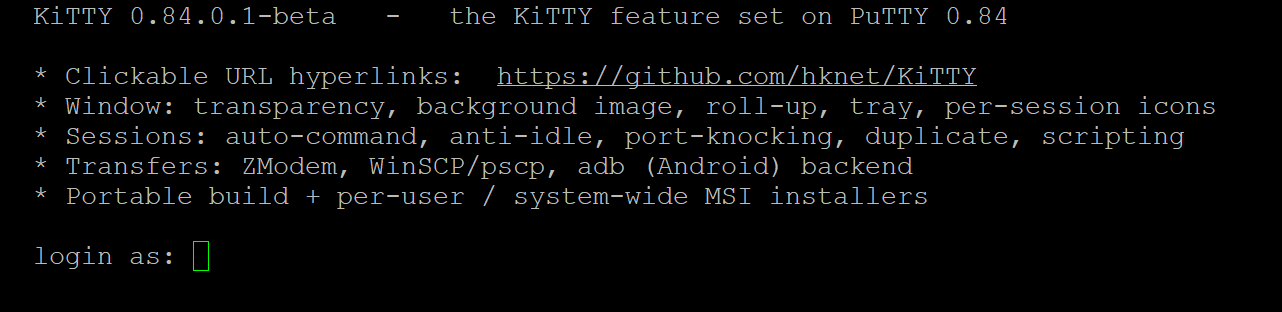
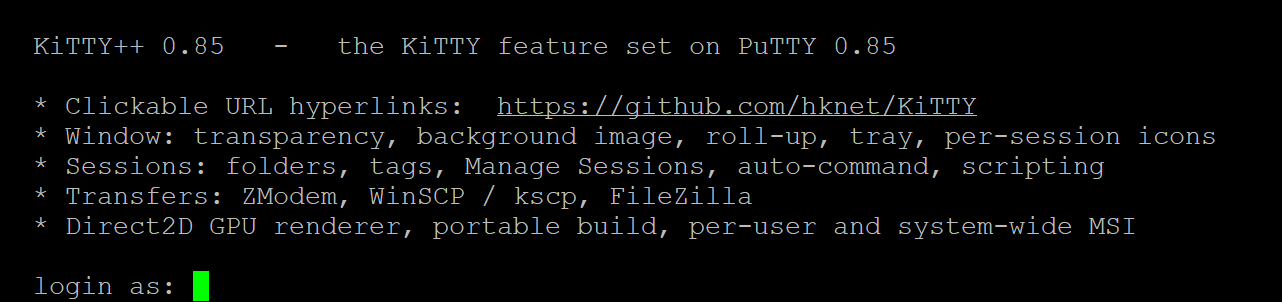
README and FEATURES: new screenshots of the current release
Every picture in the README and FEATURES is taken from the current build over generated demo content.
The README shows the GPU renderer settings in the light and the dark theme side by side.
Three pictures FEATURES referred to had never existed.
Four showed a panel other than the one their section describes.
The font section now names the menu the font controls really sit in.

diff --git a/FEATURES.md b/FEATURES.md
@@ -118,7 +118,7 @@ If you manage a large number of saved sessions, KiTTY++ lets you organize them i
 
 **How to enable:** Automatic in KiTTY++ mode: the Session panel shows a **Folder** dropdown that filters the saved-session list to one folder, plus New folder / Delete folder controls. To create a folder, pick the **`<new folder...>`** entry at the top of the dropdown, type the name, and click *New folder*. To rename a folder, select it, type the new name over it, and click *Rename* — the button renames itself. The sessions in it move with it. Deleting a folder that holds sessions puts up the question where they go - the root (preselected) or any other folder - rather than deleting them. Sessions that are in no folder live in the root list, shown as **All sessions (root)** — that is not a folder and cannot be deleted, but you can rename what it is called: select it, type your own name over the label, and the button changes to *Rename* to confirm what will happen. Typing the built-in name back restores it. The new name is cosmetic, so no session or setting is moved or changed by it (it is stored as `RootFolderLabel`, in the registry or in kitty.ini's `[KiTTY]` section depending on your save mode). To search within the active folder filter, type in the Saved Sessions field; Up/Down moves into the filtered list and Enter loads or starts the highlighted visible session. Press **Ctrl+F** anywhere in the config window — from any settings panel, or right after starting a session with Enter — to jump back to the Session panel with the search field focused and its content selected, so just typing starts a new search. **Ctrl+G** does the same but searches *everywhere*: it first drops the folder filter back to the root list, so the search covers every saved session instead of only the selected folder. Nothing is loaded, moved or re-filed by it — only the folder filter changes. The two buttons differ in where the session opens: clicking **Open** opens the chosen session in the current window (the config box closes), while **Start** — like pressing Enter — starts it in a new window and keeps the config box open for launching the next one. If you prefer the classic behaviour where typing never narrows the list, set `filter=no` in the kitty.ini `[ConfigBox]` section.
 
-![Sessions filter (folders): the folder dropdown on Production\Web, with web02 loaded](docs/features/img/session_list_classic.png)
+<img src="docs/features/img/session_list_classic.png" width="585" height="432" alt="Sessions filter (folders): the folder dropdown on Production\Web, with web02 loaded">
 
 *See also: [How session folders work (PDF)](docs/features/kitty-folders_list_feature.pdf)*
 
@@ -136,7 +136,7 @@ no folder — the rest are reached through their folder — which is the differe
 you will notice first, because the classic root list shows everything and marks
 the filed ones in brackets.
 
-![Folder navigation mode: the root lists its folders as rows, then the sessions in no folder](docs/features/img/session_list_rows.png)
+<img src="docs/features/img/session_list_rows.png" width="585" height="432" alt="Folder navigation mode: the root lists its folders as rows, then the sessions in no folder">
 
 - **Create a folder:** type the name in the session-name box and press
   **New folder**, which sits beside *Save*. No arming step, and creating a
@@ -279,7 +279,7 @@ sessions on after a confirmation. Sessions dragged from the list onto it take
 the tag. Del or *Remove from Tag* takes it off, after a confirmation. The
 window reopens on the last tag.
 
-![Manage Sessions](docs/features/img/manage_sessions.png)
+<img src="docs/features/img/manage_sessions.png" width="728" height="536" alt="Manage Sessions">
 
 **Arrange.** Sessions saved by an older version are filed by their `Folder=`
 value and keyed by their bare name. *Arrange...* moves each of them to its
@@ -400,7 +400,7 @@ letter with no command behind it is left alone, and an explicit binding in
 `eventlog={CONTROL}{SHIFT}L` without it being swallowed. To turn the whole
 mechanism off, set `shortcuts=no` in the `[KiTTY]` section of `kitty.ini`.
 
-![Shortcuts for pre-defined commands](docs/features/img/menu_shortcuts.jpg)
+<img src="docs/features/img/menu_usercommands.png" width="672" height="601" alt="User commands with their Ctrl+Shift shortcuts in the terminal menu">
 
 ### Session launcher
 
@@ -420,9 +420,9 @@ You can keep individual sessions out of the launcher menu while leaving them in 
 
 For favourite sessions, you can assign a **global hotkey** in the session's **Session → Startup** panel. The hotkey is registered only while `kitty.exe -launcher` is running; when you save a session, a running launcher is notified and refreshes its registered hotkeys automatically. The same panel includes a check button that reports whether the combination is currently available or already reserved by Windows/another application — and it names any saved session already holding the combination. When two sessions end up claiming one hotkey anyway (an import, save), the launcher balloons at startup naming who won; clicking the balloon opens the winner's settings.
 
-![Global hotkey](docs/features/img/config_hotkey.jpg)
+<img src="docs/features/img/config_hotkey.jpg" width="585" height="497" alt="Global hotkey">
 
-![Session launcher](docs/features/img/ex_launcher.jpg)
+<img src="docs/features/img/ex_launcher.png" width="599" height="300" alt="Session launcher: the tray menu with a folder open">
 
 ### Automatic logon script
 
@@ -460,7 +460,7 @@ secret123
 :: the line above waits for the server's "password:"
 ```
 
-![Automatic logon script (RuTTY patch)](docs/features/img/config_rutty.jpg)
+<img src="docs/features/img/config_rutty.jpg" width="585" height="497" alt="Automatic logon script (RuTTY patch)">
 
 ### URL hyperlinks
 
@@ -474,7 +474,7 @@ Programs that send OSC 8 hyperlinks (e.g. `ls --hyperlink` or Textual and Rich a
 
 **How to enable:** Configuration > **Window > Hyperlinks**: **Detect URLs in the output (regex)** (`HyperlinkScan`) and **Allow OSC 8 hyperlinks** (`HyperlinkOSC8`), per session, both on; **Show the target of OSC 8 hyperlinks on hover** (`HyperlinkPreview`). Also **Underline hyperlinks**, whether Ctrl is required to activate links, browser and optional hand cursor on hover. **Confirmation before opening a link** (`HyperlinkConfirm`) chooses Always, When the link looks risky (the default) or Only for non-web links. Ctrl+click a URL in the terminal to open it by default.
 
-![URL hyperlinks](docs/features/img/config_hyperlinks.jpg)
+<img src="docs/features/img/config_hyperlinks.jpg" width="585" height="497" alt="URL hyperlinks">
 
 ---
 
@@ -498,7 +498,7 @@ KiTTY++ can log you in automatically to telnet, SSH-1 and SSH-2 servers by stori
 
 **How to enable:** Configuration > **Connection > Login > Auto-login password**. It is stored with the session and sent automatically at SSH login. Tick **Show password** beside the field to reveal the stored value. As of 0.84.1.38 the password is **encrypted at rest with Windows DPAPI** (tied to your Windows account), rather than stored reversibly; existing/legacy passwords still load and are re-encrypted on the next save. NOTE: a one-time security warning still appears when you set one. DPAPI is machine-bound (it defeats offline/cross-user theft, not same-user malware, and does not move to another PC) — for the strongest security, prefer SSH public-key auth (kageant). In **portable mode** you can additionally protect it with a **master password** for cross-machine portability, which — unlike DPAPI — cannot be recovered if you forget it (see *Portable mode*). The master password is required **once per running KiTTY**: unlocking it once shares it with the session windows KiTTY opens next — from the config box, *New Session*, *Duplicate Session*, or the tray launcher — so you are not prompted again for each window. The unlock is handed only to KiTTY's own child processes (through an inherited handle, wrapped in memory with Windows CryptProtectMemory); the saved files stay master-password-encrypted at rest.
 
-![Automatic password](docs/features/img/config_password.jpg)
+<img src="docs/features/img/config_password.jpg" width="585" height="497" alt="Automatic password">
 
 ### Passwords in memory
 
@@ -524,8 +524,8 @@ When you store private keys in KiTTY's key agent (kageant), you can require an e
 
 **How to enable:** For all keys at once, tick **"Ask confirmation before each key use"** in the kageant tray menu (persisted, default off): every signing request then pops an allow/deny prompt naming the key. Or per key: generate a key whose **comment contains the word `confirmation`** (in kittygen the **Add confirmation** button beside the comment field appends it for you), then load it into **kageant.exe** — only that key requires confirmation. Or from **kitty.ini**: `[Agent] askconfirmation=` with the classic three states — `yes` (every use), `auto` (per-key comments only; the default), `no` (never — also silences the per-key prompts, for automation). kageant finds the ini on its own (`KITTY_INI_FILE`, else next to the exe, else `%APPDATA%`); when that file sets `[KiTTY] savemode=file` or `dir` — or, with no savemode line, when a portable layout (a `Sessions` folder or `KiTTYState` file) sits beside it — the ini is the authoritative store and the tray toggle writes back to it, so a **portable** kageant never touches the registry; the key-list window and the tray tooltip show *kitty.ini mode* when this is in effect. The related **“Notify when a key is used”** tray balloon (default on) is controllable the same way with `[Agent] messageonkeyusage=yes/no`.
 
-![Private-key usage confirmation](docs/features/img/config_kittygen.jpg)
-![Private-key usage confirmation](docs/features/img/ex_kageant.jpg)
+<img src="docs/features/img/config_kittygen.png" width="653" height="590" alt="kittygen with an Ed25519 key loaded">
+<img src="docs/features/img/ex_kageant.png" width="732" height="488" alt="kageant key list with a key loaded">
 
 
 ### kageant — Windows OpenSSH agent integration
@@ -717,11 +717,11 @@ Either way, agent authentication to the jump host follows the *Attempt authentic
 
 **Multiple jump hops.** There is no comma-separated jump list; chain instead. Because a hand-typed proxy host that names a saved session inherits *that* session's proxy too, you can reach `A → B → C` by giving session C a proxy whose host is the saved session B, whose own proxy points at A. The chain is **bounded at 5 hops** so that a chain which loops back on itself fails with an error naming the limit instead of hanging; raise or lower it with `[KiTTY] proxychainmax=` in kitty.ini. Each link is written to the Event Log as `proxy chain link N: host port`.
 
-![Named proxy editor](docs/features/img/config_proxyeditor.png)
+<img src="docs/features/img/config_proxyeditor.png" width="585" height="468" alt="Named proxy editor">
 
 **How to enable:** The dropdown appears automatically once you have any named proxy defined — click **Edit** beside it (which opens the editor on the definition currently selected) or the button on the Connection/Proxy panel to add one. Pick it from the Session panel to override the next connection only, or use **Load into this window** on the Connection/Proxy panel to make it part of the session; that one requires a confirmation first, naming everything it replaces (including the username and password), and warns in red when the session has *Save settings on exit* enabled and the change would therefore persist without an explicit Save. To force the dropdown always on or off, set `[ConfigBox]` `proxyselection=yes` (or `no`) in kitty.ini; the default is `auto`.
 
-![Proxy choice](docs/features/img/config_proxychoice.jpg)
+<img src="docs/features/img/config_proxychoice.jpg" width="585" height="497" alt="Proxy choice">
 
 ### Workplace proxy mode
 
@@ -739,7 +739,7 @@ Workplace proxy mode is that switch. Pick one of your named proxies and the time
 
 **How to enable:** define at least one named proxy (above), then *Application → Workplace Proxy* → **Switch on**, or the launcher's tray menu. The duration notice can be lengthened with `[Launcher] noticeseconds=` in kitty.ini.
 
-![Workplace proxy mode](docs/features/img/config_workplace.jpg)
+<img src="docs/features/img/config_workplace.jpg" width="585" height="497" alt="Workplace proxy mode">
 
 ### SSH handler (URL/OS integration)
 
@@ -795,7 +795,7 @@ Three `kitty.ini` `[KiTTY]` settings fine-tune the timing: **initdelay** — sec
 
 **How to enable:** Configuration > **Connection > Login > Auto-command**: a command sent to the server automatically right after login. The delay before the first send is `initdelay` (seconds, default 2.0) in the kitty.ini `[KiTTY]` section — raise it for hosts that are slow to present their prompt; the delay between subsequent lines is `commanddelay`.
 
-![Automatic command](docs/features/img/config_autocommand.jpg)
+<img src="docs/features/img/config_autocommand.jpg" width="585" height="497" alt="Automatic command">
 
 ### Force CR/LF on the Enter key
 
@@ -803,7 +803,7 @@ By default, pressing Enter sends a single carriage return to the remote host. In
 
 **How to enable:** Tick **Terminal > 'Enter key sends CR LF'** (session key `EnterSendsCrLf`). When on, pressing Enter sends CR+LF instead of CR only — for servers that need both.
 
-![Force CR/LF on the Enter key](docs/features/img/config_forcecrlf.jpg)
+<img src="docs/features/img/config_forcecrlf.jpg" width="585" height="497" alt="Force CR/LF on the Enter key">
 
 ### Run a locally saved script on a remote session
 
@@ -849,7 +849,7 @@ KiTTY can route a session's terminal output straight into the Windows clipboard.
 
 **How to enable:** Pick **'Windows clipboard'** as the printer in **Terminal > printing** (or tick *Print to clipboard*). Then send terminal output to the clipboard with the ANSI printer-controller sequence: `printf '\e[5i'; cat file; printf '\e[4i'`.
 
-![Standard output to the clipboard](docs/features/img/StdoutToClipboard.png)
+<img src="docs/features/img/StdoutToClipboard.png" width="585" height="432" alt="Remote-controlled printing to the Windows clipboard">
 
 ### Restricted process ACL (-restrict-acl)
 
@@ -955,7 +955,7 @@ KiTTY++ lets you shield a session against accidental or unintended keystrokes. W
 
 **How to enable:** System menu **Protect** — locks the keyboard so accidental keystrokes can't reach the session.
 
-![Protection against keyboard input](docs/features/img/ex_protected.jpg)
+<img src="docs/features/img/ex_protected.png" width="607" height="156" alt="A protected terminal: (PROTECTED) in its title">
 
 ### Word navigation modifier
 
@@ -1045,7 +1045,7 @@ KiTTY++ lets you assign a distinct window icon to each saved session, so you can
 
 **How to enable:** Configuration > **Window > Title & Icon**: choose a per-session icon (from the embedded icon set or a .ico file).
 
-![An icon for each session](docs/features/img/config_icon.jpg)
+<img src="docs/features/img/config_icon.jpg" width="585" height="497" alt="An icon for each session">
 
 ### Send to tray
 
@@ -1063,7 +1063,7 @@ With many windows, one tray icon each gets crowded, so where a window goes is a 
 
 A window hidden into the launcher shows itself again if that launcher is killed or crashes, after the delay set by `[Launcher] unhideafter`, like every window the launcher hid.
 
-![Send to tray](docs/features/img/config_sendtotray.jpg)
+<img src="docs/features/img/config_sendtotray.jpg" width="585" height="497" alt="Send to tray">
 
 ### One confirmation for many windows
 
@@ -1081,7 +1081,7 @@ KiTTY++ lets you make a terminal window see-through, so you can watch what's hap
 
 **How to enable:** Configuration > **Window > Appearance > Background** (set the level), and the system-menu **Transparency +/-** items to adjust it live. `0` is fully opaque and is the default for a new session; `255` is as see-through as it goes. Set a session to `-1` to lock it opaque — the menu entries are then not offered and the keyboard shortcuts decline, which is what you want when an accidental **CTRL+DOWN** must never dim that window. `transparency=no` in the kitty.ini `[KiTTY]` section removes the feature altogether, for every session. With Direct2D, a window that may be transparent is layered from its creation; one opened opaque stays opaque, and a transparency change applies to the next window. `/transparency` acts on the terminal window.
 
-![Transparency](docs/features/img/config_transparency.jpg)
+<img src="docs/features/img/config_transparency.jpg" width="585" height="497" alt="Transparency">
 
 ### Roll-up
 
@@ -1101,11 +1101,11 @@ Always on top (formerly "Always visible") keeps a KiTTY++ window in the foregrou
 
 ### Font management
 
-KiTTY++ adds a **Font settings** option to the main menu that lets you adjust the terminal's appearance on the fly. From here you can increase or decrease the font size, switch to negative colors, and toggle between black-on-white and white-on-black backgrounds. Font size can also be changed quickly by holding **CTRL** and scrolling the mouse wheel.
+KiTTY++ puts font and colour controls into the terminal's menu, under **Window**: **Font Up** and **Font Down** change the font size on the fly, **Invert colours** swaps the text and background colours, and **Black on white** switches to a light screen. Font size can also be changed quickly by holding **CTRL** and scrolling the mouse wheel.
 
-**How to enable:** System menu **Font Up / Font Down** to resize the terminal font on the fly.
+**How to enable:** terminal menu > **Window** > **Font Up / Font Down** to resize the terminal font on the fly.
 
-![Font management](docs/features/img/ex_fonts.jpg)
+<img src="docs/features/img/ex_fonts.png" width="660" height="642" alt="Font Up / Font Down, Invert colours, Black on white in the terminal menu">
 
 ### Line spacing
 
@@ -1153,7 +1153,7 @@ KiTTY++ can display a picture behind your terminal text, giving each session win
 
 **How to enable:** Add `bgimage=yes` to `[KiTTY]` in kitty.ini (the key is `bgimage`, not `backgroundimage`), then configure **Window > Appearance > Background** (image file, opacity, slideshow).
 
-![Background image](docs/features/img/ex_background.jpg)
+<img src="docs/features/img/ex_background.png" width="607" height="246" alt="A terminal over a background image">
 
 ### Terminal renderer (Direct2D)
 
@@ -1327,7 +1327,7 @@ KiTTY++ lets you transfer files without opening a separate program, reusing the 
 
 **How to enable:** kscp ships beside kitty.exe and is found at every start; the paths to WinSCP and FileZilla, the transfer port, the global download and upload folders and the notification switch are on **Application > KiTTY++ Settings > Transfers & Tools**. Per session: each tool has its own **Protocol:** and **Port:** on its own panel — kscp SFTP or SCP on **Connection > SSH > KSCP** (with the kscp options and the drag-and-drop switch), WinSCP's full list on **Connection > SSH > WinSCP** and FileZilla's four on **Connection > SSH > FileZilla**, each beside that tool's own options. An empty **Port:** shows the port in use in grey: the protocol's standard port — for SFTP and SCP the session's own port when the session is SSH, 22 otherwise, and for kscp the global transfer port before that; the fields take digits only. Where files go is on **Connection > File-Transfer-Settings**, and so is **Target override ([user@]hostname[:port]):** in its **Remote target** group (`SFTPConnect`) — the host WinSCP and FileZilla are pointed at instead of the session's own, with a port written into it winning over either tool's **Port:**.
 
-![kscp, WinSCP and FileZilla integration](docs/features/img/config_winscp_integration.jpg)
+<img src="docs/features/img/config_winscp_integration.jpg" width="585" height="497" alt="kscp, WinSCP and FileZilla integration">
 
 ### Binary compression
 
@@ -1411,7 +1411,7 @@ KiTTY integrates ZModem support (originally from LePuTTY) so you can transfer fi
 
 **How to enable:** On by default — set the rz/sz helper paths once for this PC on **Application > KiTTY++ Settings > Transfers & Tools > ZModem** (`rzcommand`, `szcommand` in `[KiTTY]`) and the Tools menu offers **ZModem Receive / Upload / Abort** (Receive needs `rz`, Upload needs `sz`; they are configured independently). The session's **Connection > ZModem** panel holds the options only; received files land in the folder set on **Connection > File-Transfer-Settings**. `zmodem=no` in `[KiTTY]` hides the session panel's settings and the menu entries.
 
-![ZModem file transfer](docs/features/img/config_zmodem.jpg)
+<img src="docs/features/img/config_zmodem.jpg" width="585" height="497" alt="ZModem file transfer">
 
 ### File transfers over the session (kitten transfer)
 
@@ -1448,7 +1448,7 @@ Other popular targets: `opennew=` (new session), `changesettings=`, `fullscreen=
 
 Two of these open KiTTY's *send-text* boxes: `input` (default CTRL+F8) pops up a one-line box and `inputm` (default SHIFT+F8, with CTRL+SHIFT+F8 as a fixed alias) a resizable multiline box pre-filled from the clipboard. Text is composed locally and sent to the terminal only when you confirm (OK, or SHIFT+RETURN in the multiline box; if you select part of the text, only the selection is sent) — handy on slow links, and for sending a multi-line snippet as one block. In the one-line box, a line starting with `/` is a KiTTY *internal command* executed locally instead of being sent — type **`/help`** for the full list; e.g. `/size` and `/wintitle` toggle the title-bar decorations at runtime, `/save` writes the live settings back to this window's saved session, `/savenew <name>` saves them as a new session and switches the window to it. The complete reference for every internal command — arguments, persistence, sharp edges — is in [docs/COMMANDS.md](docs/COMMANDS.md).
 
-![Menu key shortcuts definition](docs/features/img/menu_shortcuts.jpg)
+<img src="docs/features/img/menu_usercommands.png" width="672" height="601" alt="User commands with their Ctrl+Shift shortcuts in the terminal menu">
 
 #### The shortcut editor
 

diff --git a/README.md b/README.md
@@ -13,11 +13,14 @@ PuTTY core (≈1,300 upstream commits newer than KiTTY's original 0.76b base).
 
 A terminal session with a clickable, underlined hyperlink:
 
-<a href="screenshots/terminal.png"><img src="screenshots/terminal.png" width="600" alt="KiTTY terminal with a clickable, underlined URL"></a>
+<a href="screenshots/terminal.png"><img src="screenshots/terminal.png" width="641" height="151" alt="KiTTY++ terminal with a clickable, underlined URL"></a>
 
-The configuration of the GPU-Renderer
+The configuration of the GPU-Renderer, in the light and the dark theme:
 
-<img width="420" alt="KiTTY++ GPU-Renderer" src="https://github.com/user-attachments/assets/b1bdcae0-ea23-4458-a77f-d393c2210fca" />
+<p>
+<a href="screenshots/renderer_light.png"><img src="screenshots/renderer_light.png" width="49%" alt="KiTTY++ GPU-Renderer settings, light theme"></a>
+<a href="screenshots/renderer_dark.png"><img src="screenshots/renderer_dark.png" width="49%" alt="KiTTY++ GPU-Renderer settings, dark theme"></a>
+</p>
 
 ---
 
@@ -102,7 +105,7 @@ verified — reports welcome.
 > (`Production\Web\web01`), in the registry and in the portable folder store alike - a
 > session folder can live in Git. See [`FEATURES.md`](FEATURES.md#sessions-filter-folders).
 >
-> ![Manage Sessions](screenshots/manage_sessions.png)
+> <img src="screenshots/manage_sessions.png" width="728" height="536" alt="Manage Sessions">
 
 > 📂 **Put your files where your `cwd` is.** Turn on **OSC 7 directory tracking** and
 > drag-and-drop uploads — and *Start WinSCP* — land in your shell's **current remote
